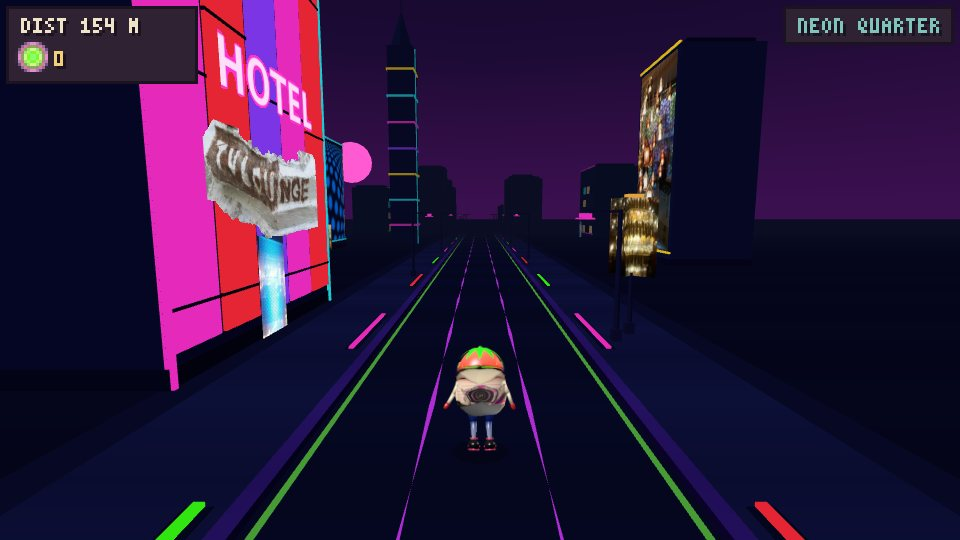
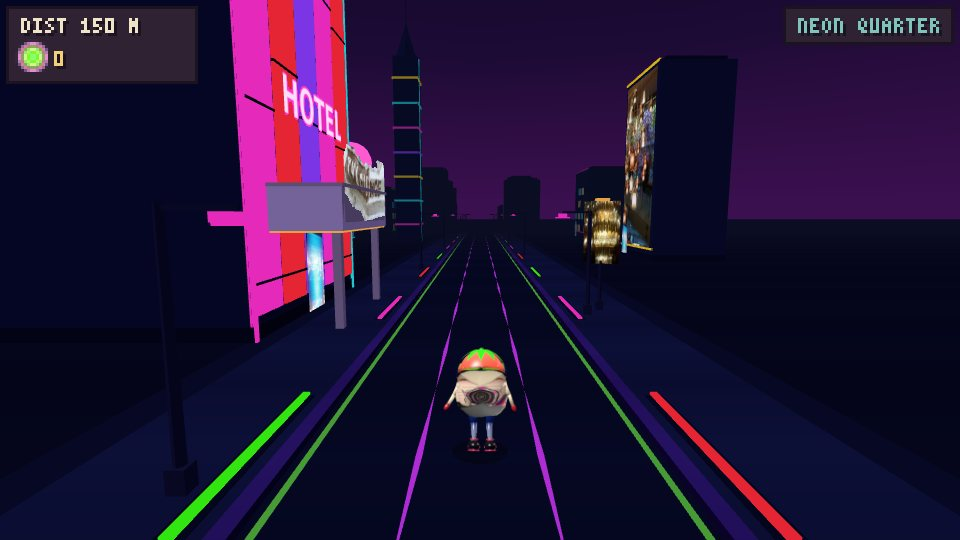
Hotel: the LOUNGE vault is now 3D, the front of a low balcony coming 2.6 m out of the hotel wall (slab with lit underside, side walls, parapet, coping, pillars); test and README

diff --git a/src3d/env_neon.js b/src3d/env_neon.js
@@ -11,7 +11,7 @@ window.ENV3D = window.ENV3D || {};
   const STRIPES = [N.yellow, N.purple, N.teal, N.mag, N.blue, N.red];
 
   // a tall slab: facade plane at local x = 0, body toward +X, centred at z = zc; vertical glowing colour strips of different heights, like the towers of the picture
-  function tower(F, D, H, seed) {
+  function tower(F, D, H, seed, more) {
     const p = [Kit.box(D, H, F, D / 2, 0, 0, seed % 2 ? N.body : N.bodyB), Kit.box(D + 0.1, 0.5, F + 0.1, D / 2, 0, 0, N.base)];
     const n = 5, w = F / n;
     for (let i = 0; i < n; i++) {
@@ -21,6 +21,7 @@ window.ENV3D = window.ENV3D || {};
     }
     p.push(Kit.box(0.2, H * 0.98, 0.14, -0.04, 0, -F / 2 + 0.05, N.mag, { glow: true }), Kit.box(0.2, H * 0.98, 0.14, -0.04, 0, F / 2 - 0.05, N.teal, { glow: true }));  // lit corners
     p.push(Kit.box(D * 0.7, 0.3, F * 0.8, D / 2, H, 0, N.base), Kit.box(0.14, 0.14, F * 0.8, 0.0, H + 0.1, 0, N.mag, { glow: true }));   // roof cap with a magenta rim
+    if (more) for (const q of more) p.push(q);
     return Kit.merge(p);
   }
   // a tower whose facade carries a panel of the user's picture (in front of the glowing strips, between the lit corners)
@@ -221,8 +222,15 @@ window.ENV3D = window.ENV3D || {};
   }
   // the hotel: a tower of the quarter, its entrance under the burlap vault (the arch of the user's photo with the rose), a neon HOTEL sign over it, a blue glass door (the blue panel)
   const hotel = () => {
-    const F = 11, D = 9, H = 30, m = tower(F, D, H, 3), vw = 7.4, vh = vw / A4("vault").ar, sw = 6.4, sh = sw / A4('hotel').ar;
-    const door = NeonArt.panel4('panelBlue', -0.36, -1.7, 0.1, 0.15, 3.4), vault = NeonArt.panel4('vault', -0.6, -vw / 2 - 0.8, vw / 2 - 0.8, 3.3, 3.3 + vh), sign = NeonArt.panel4('hotel', -0.4, -sw / 2, sw / 2, 3.3 + vh + 0.5, 3.3 + vh + 0.5 + sh);
+    // the LOUNGE picture is no longer a flat sign: it is the front of a low BALCONY that comes out of the wall above the hotel's door (a plaster slab 2.6 m deep, side walls, a low parapet behind the
+    // picture, the picture standing on the front edge, a lit underside), so it is seen in depth as the street goes by
+    const F = 11, D = 9, H = 30, vw = 6.4, vh = vw / A4('vault').ar, sw = 6.4, sh = sw / A4('hotel').ar, BD = 2.6, BY = 3.5, BZ = -0.8, PLASTER = '#e6e0d2', PLASTER_D = '#b9b1a0';
+    const bal = [Kit.box(BD, 0.28, vw + 0.5, -BD / 2, BY, BZ, PLASTER), Kit.box(BD - 0.1, 0.06, vw + 0.4, -BD / 2, BY - 0.07, BZ, gold, { glow: true }),                               // the slab and a lit underside
+      Kit.box(0.3, 1.2, vw + 0.5, -BD + 0.15, BY + 0.28, BZ, PLASTER_D), Kit.box(BD, 1.2, 0.3, -BD / 2, BY + 0.28, BZ - vw / 2 - 0.1, PLASTER), Kit.box(BD, 1.2, 0.3, -BD / 2, BY + 0.28, BZ + vw / 2 + 0.1, PLASTER),   // front (behind the picture) and side walls
+      Kit.box(BD + 0.1, 0.12, 0.42, -BD / 2, BY + 1.48, BZ - vw / 2 - 0.1, PLASTER_D), Kit.box(BD + 0.1, 0.12, 0.42, -BD / 2, BY + 1.48, BZ + vw / 2 + 0.1, PLASTER_D), Kit.box(0.42, 0.12, vw + 0.6, -BD + 0.15, BY + 1.48, BZ, PLASTER_D),   // the coping
+      Kit.box(0.3, 3.5, 0.3, -BD + 0.4, 0, BZ - vw / 2 + 0.4, PLASTER_D), Kit.box(0.3, 3.5, 0.3, -BD + 0.4, 0, BZ + vw / 2 - 0.4, PLASTER_D)];                              // two pillars under it
+    const m = tower(F, D, H, 3, bal);
+    const door = NeonArt.panel4('panelBlue', -0.36, -1.7, 0.1, 0.15, 3.4), vault = NeonArt.panel4('vault', -BD - 0.03, BZ - vw / 2, BZ + vw / 2, BY + 0.28, BY + 0.28 + vh), sign = NeonArt.panel4('hotel', -0.4, -sw / 2, sw / 2, BY + 0.28 + vh + 0.6, BY + 0.28 + vh + 0.6 + sh);
     return { merged: m, sprite: TramArt.join([door, vault, sign]), material: mat4 };
   };
   const LAMPS = ['neonMoroccanLamp', 'neonPendantLamp', 'neonLanternPierced', 'neonChandLamp', 'neonPillarLamp', 'neonLightbox'];

diff --git a/tests/qa3d_world.js b/tests/qa3d_world.js
@@ -268,6 +268,7 @@ const res = []; const T = (n, ok, i = '') => { res.push(ok); console.log((ok ? '
     // lamps: six, each two crossed planes of its picture on a post
     const LAMPS = ['neonMoroccanLamp', 'neonPendantLamp', 'neonLanternPierced', 'neonChandLamp', 'neonPillarLamp', 'neonLightbox']; out.lamps = LAMPS.map(n => { const m = ENV3D.neon.props[n](); return [n, m.sprite.attributes.position.count, m.material() === mat]; });
     // the hotel: a tower with a blue glass door, the burlap vault above it and the neon HOTEL sign
+    { const hh = ENV3D.neon.props.neonHotel(); const q = hh.sprite.attributes.position.array; let vx = 9; for (let i = 0; i < hh.sprite.attributes.position.count; i += 4) vx = Math.min(vx, q[i * 3]); hh.merged.lit.computeBoundingBox(); out.balcony = { reach: +(-hh.merged.lit.boundingBox.min.x).toFixed(2), pictureX: +vx.toFixed(2) }; }
     const h = ENV3D.neon.props.neonHotel(); out.hotel = { quads: h.sprite.attributes.position.count / 4, shared: h.material() === mat, merged: !!h.merged, vaultAr: +NEON_ASSETS4.vault.ar.toFixed(2), hotelAr: +NEON_ASSETS4.hotel.ar.toFixed(2) };
     // the street places them: all lamps, the hotel (as a landmark), and never a door-less wrapped building
     const used = new Set(); for (let i = 0; i < 4000; i++) for (const q of ENV3D.neon.layout(i, rnd)) used.add(q.prop); out.usedLamps = LAMPS.filter(n => used.has(n)).length; out.usedHotel = used.has('neonHotel');
@@ -282,6 +283,8 @@ const res = []; const T = (n, ok, i = '') => { res.push(ok); console.log((ok ? '
     N4.doorProps >= 20 && N4.doorCells.join() === 'panelBlue,tiles,tiles2,tilewall' && N4.doorsOk && N4.noDoorOnSigns, JSON.stringify({ n: N4.doorProps, cells: N4.doorCells, ok: N4.doorsOk }));
   T('LAMPS: the rest of the pictures are six street lamps (filigree lamp, hanging glass drops, pierced lantern, chandelier, pink pillar, lit restaurant front), each a picture lit on a post, all placed by the street',
     N4.lamps.length === 6 && N4.lamps.every(l => l[1] >= 4 && l[2]) && N4.usedLamps === 6, JSON.stringify({ lamps: N4.lamps, used: N4.usedLamps }));
+  T('the vault is 3D: the LOUNGE picture is the front of a low balcony that comes ' + N4.balcony.reach + ' m out of the hotel wall (slab, side walls, parapet, pillars), the picture standing on its front edge ' + N4.balcony.pictureX + ' m from the wall',
+    N4.balcony.reach >= 2.4 && N4.balcony.pictureX <= -2.5, JSON.stringify(N4.balcony));
   T('the HOTEL: a tower of the quarter with a blue glass door, the vault (your burlap and plaster LOUNGE picture, already cut out, aspect ' + N4.hotel.vaultAr + ') over the entrance and a neon HOTEL sign (' + N4.hotel.hotelAr + '); a landmark of the street; the vault is transparent at its corner and opaque in the middle',
     N4.hotel.quads === 3 && N4.hotel.shared && N4.hotel.merged && N4.usedHotel && N4.vaultCorner < 20 && N4.vaultMid > 200, JSON.stringify({ hotel: N4.hotel, used: N4.usedHotel, corner: N4.vaultCorner, mid: N4.vaultMid, bottom: N4.vaultBottom }));
 

diff --git a/README.md b/README.md
@@ -47,7 +47,7 @@ A third set of 17 pictures (`src3d/neon_assets3.js`, one alpha atlas) adds 17 mo
 
 **Neon Quarter, fourth set of your pictures** (`src3d/neon_assets4.js`, made by `tools/make_neon_assets4.py`: one WebP atlas of 1024 x 1844 cut from six of your pictures; the pictures are only cropped and scaled, never recoloured or redrawn; the lamp and the vault are cut out along their outlines). As you asked, **the outlined ones are DOORS**: the two teal tile rooms, the blue backlit panel and the teal tile wall are the doors of the shops and buildings of the quarter (22 of them: every tower, block, shop and picture block gets one, as an extra textured panel next to the prop's own; `ENV3D.neon.doors`) and **the rest are LAMPS**: six street lamps along the kerb, each a picture lit on a post (the filigree lamp, the hanging glass drops, the pierced screen as a lantern, the chandelier, the pink panel as a pillar, the lit restaurant front as a light box), in a new stretch of lamps and scattered through the others. Two new stretch characters in all (lamps, and doors), ten now.
 
-**The hotel** (`neonHotel`, a landmark): one of the quarter's towers, a blue glass door at its foot, over the entrance **the vault**: your burlap and plaster **LOUNGE** picture (the last one you sent, already cut out; it replaces the first vault, which was cut from the photo with the rose), and over it a neon HOTEL sign (drawn in code).
+**The hotel** (`neonHotel`, a landmark): one of the quarter's towers, a blue glass door at its foot, over the entrance **the vault**, now in 3D: your burlap and plaster **LOUNGE** picture (the last one you sent, already cut out) is the front of a **low balcony that comes 2.6 m out of the hotel wall** (a plaster slab with a lit underside, side walls, a parapet behind the picture, a coping and two pillars; the picture stands on its front edge), and over it a neon HOTEL sign (drawn in code).
 
 ![the hotel and its vault](docs/screenshots/neon-hotel.jpg)
 
